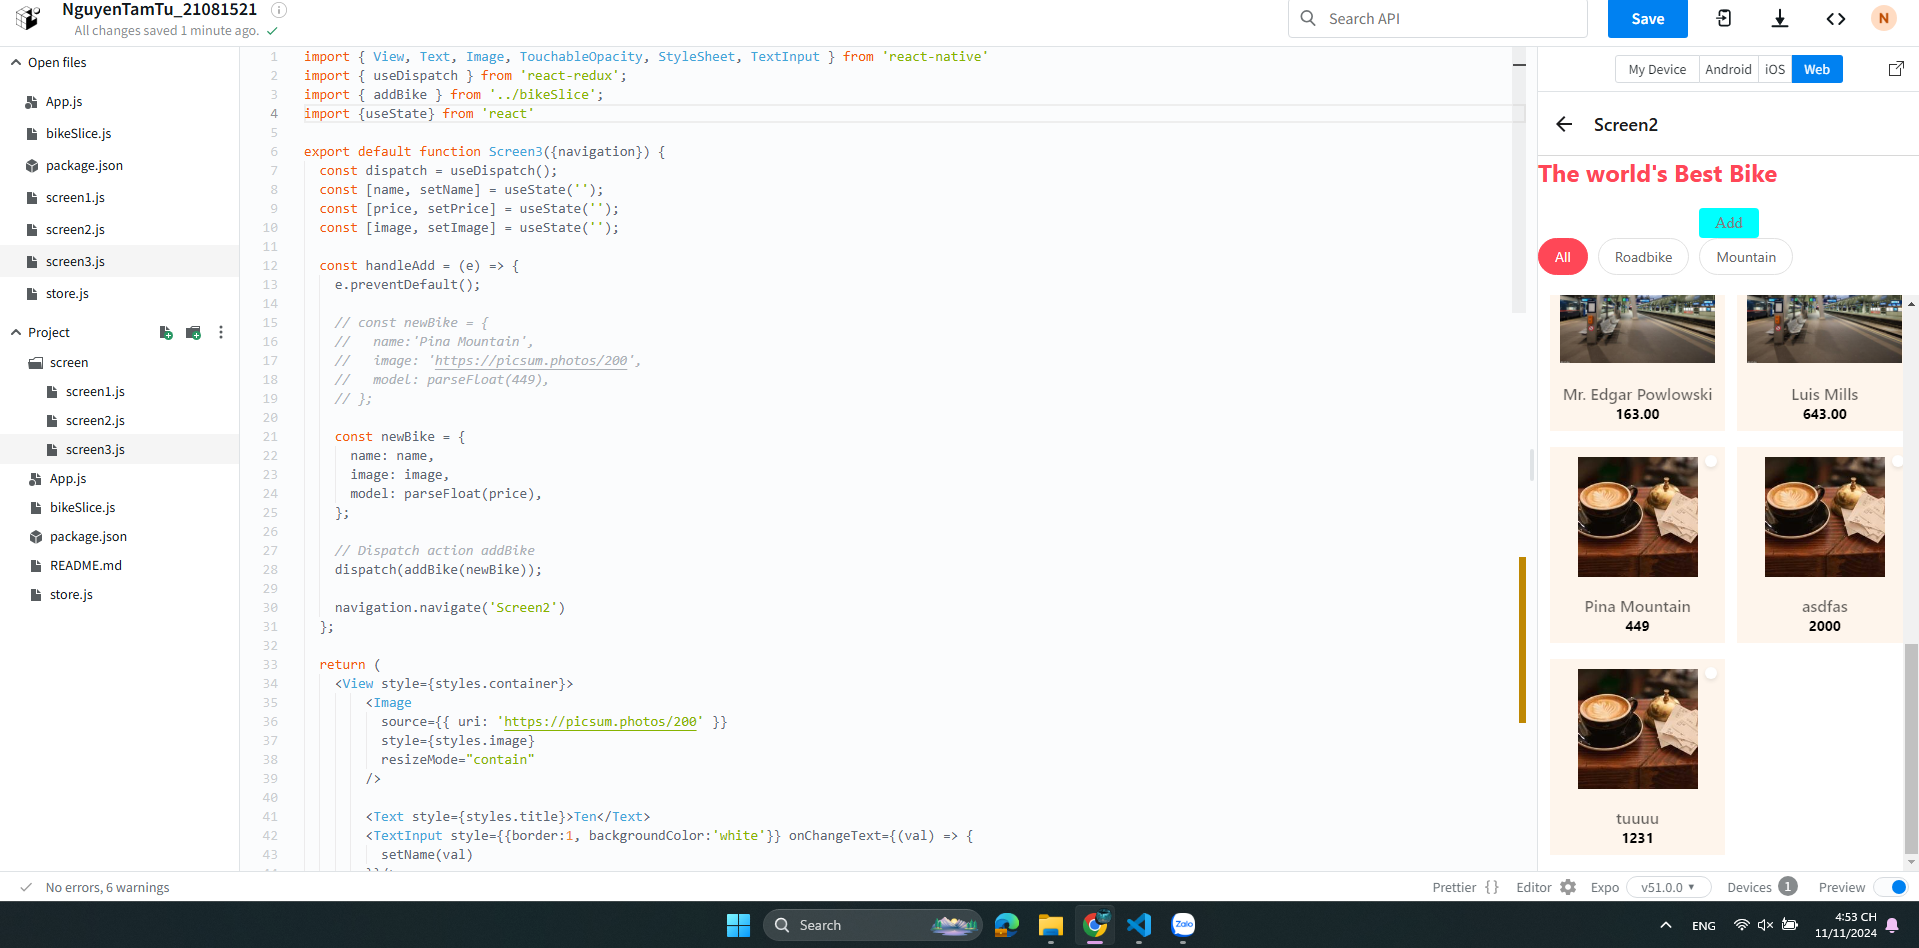
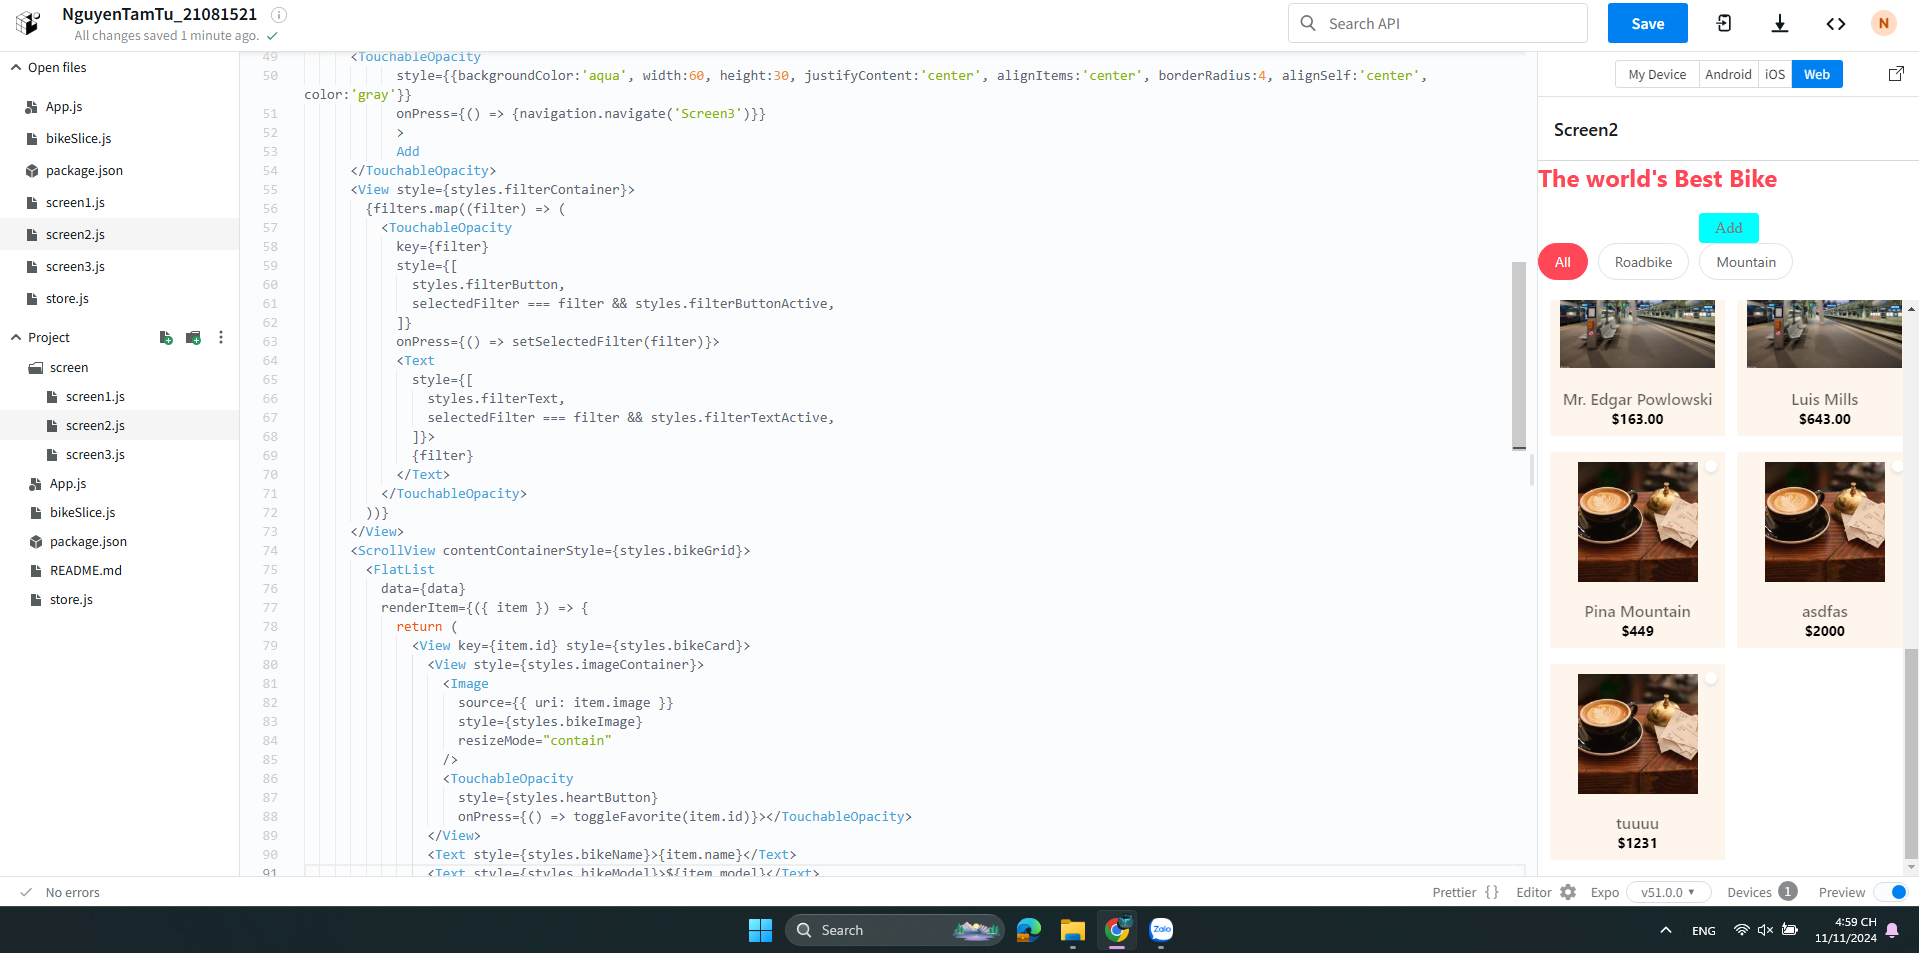
cau 2 add data vao api ver2

diff --git a/CodeBaiLam/screen/screen3.js b/CodeBaiLam/screen/screen3.js
@@ -81,33 +81,6 @@ const styles = StyleSheet.create({
     fontWeight: 'bold',
     marginBottom: 8,
   },
-  priceContainer: {
-    flexDirection: 'row',
-    alignItems: 'center',
-    gap: 8,
-    marginBottom: 16,
-  },
-  discountText: {
-    fontSize: 16,
-    color: '#666',
-  },
-  price: {
-    fontSize: 20,
-    fontWeight: 'bold',
-  },
-  descriptionContainer: {
-    marginBottom: 16,
-  },
-  descriptionTitle: {
-    fontSize: 18,
-    fontWeight: '600',
-    marginBottom: 8,
-  },
-  descriptionText: {
-    fontSize: 14,
-    color: '#666',
-    lineHeight: 20,
-  },
   footer: {
     flexDirection: 'row',
     alignItems: 'center',

diff --git a/CodeBaiLam/screen/screen2.js b/CodeBaiLam/screen/screen2.js
@@ -88,7 +88,7 @@ export default function Screen2({navigation}) {
                     onPress={() => toggleFavorite(item.id)}></TouchableOpacity>
                 </View>
                 <Text style={styles.bikeName}>{item.name}</Text>
-                <Text style={styles.bikeModel}>{item.model}</Text>
+                <Text style={styles.bikeModel}>${item.model}</Text>
               </View>
             );
           }}
